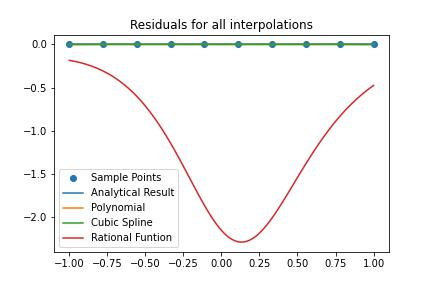
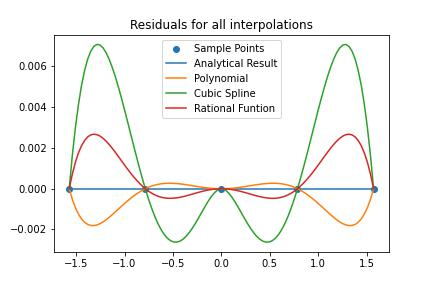
updated figs q4

diff --git a/Assignment 1/Assignment_1.md b/Assignment 1/Assignment_1.md
@@ -206,3 +206,7 @@ The error for the cubic spline interpolation is 0.0038
 The error for the rational function interpolation is 0.0065
 
 ### Lorentzian
+
+![q4_interp2](figs/q4_interp2.jpg)
+
+![q4_resi2](figs/q4_resi2.jpg)
